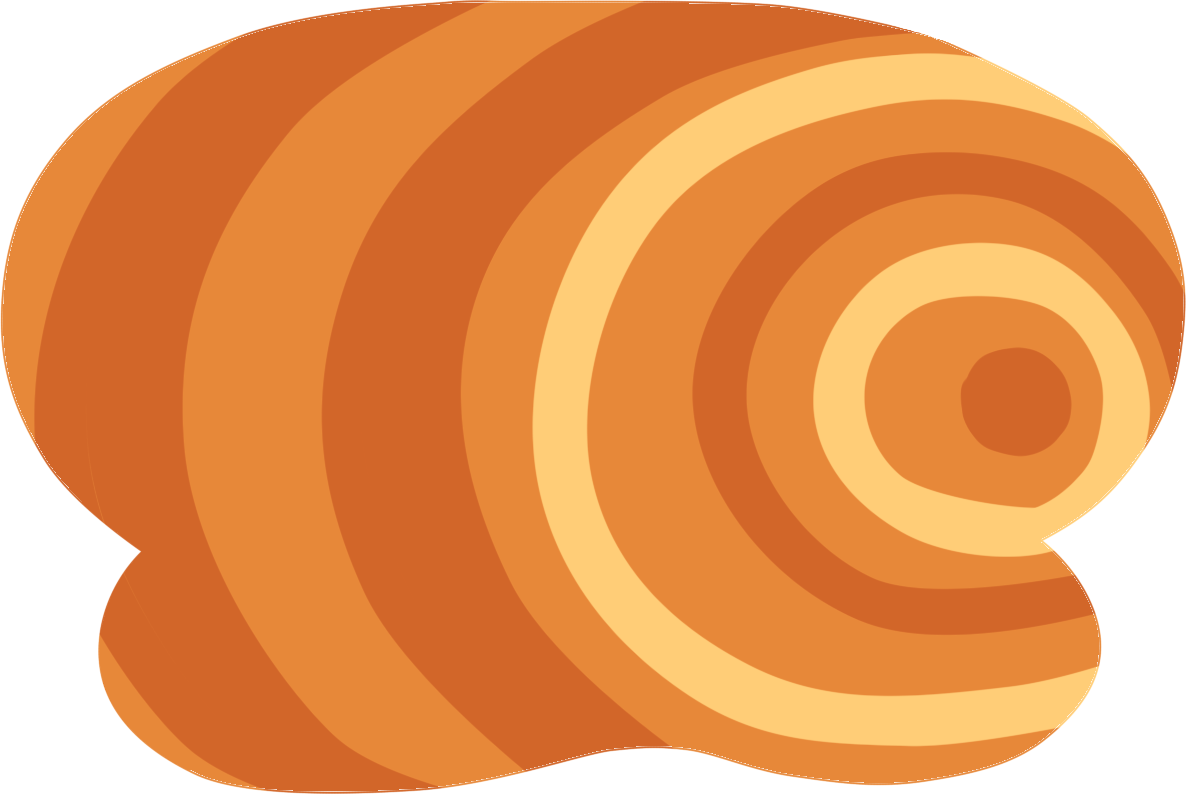
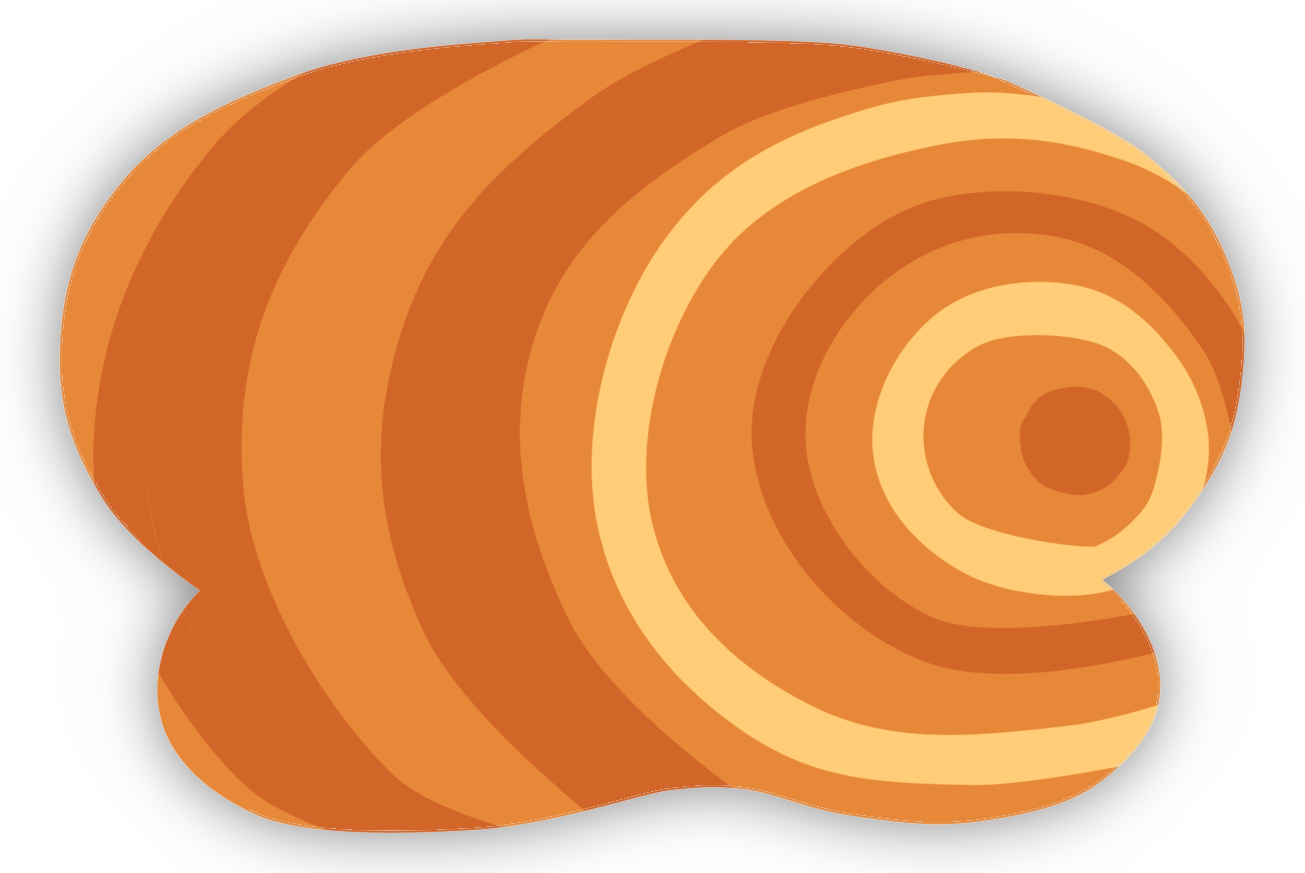
Add drop shadow to the clock

diff --git a/static/css/style.css b/static/css/style.css
@@ -18,7 +18,8 @@ body {
 }
 
 #container {
-  padding: 20px;
+  padding: 40px;
+  padding-top: 30px;
   flex-direction: column;
   background-image: url("../img/clock-bkg.png");
   background-size: contain;
